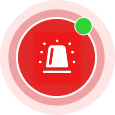
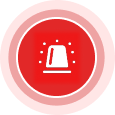
Fix

Changed region(s): [[0.6261, 0.1304, 0.8087, 0.313]]

diff --git a/lib/features/home/shared/presentation/screens/main_shell_screen.dart b/lib/features/home/shared/presentation/screens/main_shell_screen.dart
@@ -541,7 +541,10 @@ class _MainShellScreenState extends State<MainShellScreen> {
           Positioned(
             right: 12,
             bottom: navH + 8,
-            child: _SosFab(onPressed: _openIncomingRequest),
+            child: _SosFab(
+              isActive: rescueProvider.incomingRequest != null,
+              onPressed: _openIncomingRequest,
+            ),
           ),
       ],
     );
@@ -627,9 +630,10 @@ class _MainShellScreenState extends State<MainShellScreen> {
 }
 
 class _SosFab extends StatefulWidget {
-  const _SosFab({required this.onPressed});
+  const _SosFab({required this.onPressed, required this.isActive});
 
   final VoidCallback onPressed;
+  final bool isActive;
 
   @override
   State<_SosFab> createState() => _SosFabState();
@@ -655,6 +659,10 @@ class _SosFabState extends State<_SosFab> with SingleTickerProviderStateMixin {
 
   @override
   Widget build(BuildContext context) {
+    final activeColor = const Color(0xFF22C55E); // Green
+    final inactiveColor = const Color(0xFF9CA3AF); // Gray
+    final dotColor = widget.isActive ? activeColor : inactiveColor;
+
     return SizedBox(
       width: 76,
       height: 76,
@@ -662,24 +670,33 @@ class _SosFabState extends State<_SosFab> with SingleTickerProviderStateMixin {
         alignment: Alignment.center,
         clipBehavior: Clip.none,
         children: [
-          AnimatedBuilder(
-            animation: _pulse,
-            builder: (context, child) {
-              final t = _pulse.value;
-              return Stack(
-                alignment: Alignment.center,
-                children: [
-                  _GlowRing(size: 64 + t * 18, opacity: 0.22 * (1 - t)),
-                  _GlowRing(size: 52 + t * 10, opacity: 0.32 * (1 - t)),
-                ],
-              );
-            },
-          ),
+          if (widget.isActive)
+            AnimatedBuilder(
+              animation: _pulse,
+              builder: (context, child) {
+                final t = _pulse.value;
+                return Stack(
+                  alignment: Alignment.center,
+                  children: [
+                    _GlowRing(
+                      size: 64 + t * 18,
+                      opacity: 0.22 * (1 - t),
+                      color: AppColors.primary,
+                    ),
+                    _GlowRing(
+                      size: 52 + t * 10,
+                      opacity: 0.32 * (1 - t),
+                      color: AppColors.primary,
+                    ),
+                  ],
+                );
+              },
+            ),
           GestureDetector(
-            onTap: widget.onPressed,
+            onTap: widget.isActive ? widget.onPressed : null,
             child: Container(
-              width: 58,
-              height: 58,
+              width: 70,
+              height: 70,
               decoration: BoxDecoration(
                 shape: BoxShape.circle,
                 boxShadow: [
@@ -698,14 +715,34 @@ class _SosFabState extends State<_SosFab> with SingleTickerProviderStateMixin {
               child: ClipOval(
                 child: Image.asset(
                   'assets/images/main/fab_sos.png',
-                  width: 58,
-                  height: 58,
+                  width: 70,
+                  height: 70,
                   fit: BoxFit.cover,
                   errorBuilder: (_, __, ___) => Container(
                     color: AppColors.primary,
-                    child: const Icon(Icons.notifications_active, color: Colors.white, size: 28),
+                    child: const Icon(Icons.notifications_active, color: Colors.white, size: 40),
                   ),
                 ),
+              ),
+            ),
+          ),
+          Positioned(
+            right: 14,
+            top: 14,
+            child: Container(
+              width: 12,
+              height: 12,
+              decoration: BoxDecoration(
+                shape: BoxShape.circle,
+                color: dotColor,
+                border: Border.all(color: Colors.white, width: 2),
+                boxShadow: [
+                  BoxShadow(
+                    color: Colors.black.withValues(alpha: 0.2),
+                    blurRadius: 4,
+                    offset: const Offset(0, 1),
+                  ),
+                ],
               ),
             ),
           ),
@@ -716,10 +753,11 @@ class _SosFabState extends State<_SosFab> with SingleTickerProviderStateMixin {
 }
 
 class _GlowRing extends StatelessWidget {
-  const _GlowRing({required this.size, required this.opacity});
+  const _GlowRing({required this.size, required this.opacity, required this.color});
 
   final double size;
   final double opacity;
+  final Color color;
 
   @override
   Widget build(BuildContext context) {
@@ -728,7 +766,7 @@ class _GlowRing extends StatelessWidget {
       height: size,
       decoration: BoxDecoration(
         shape: BoxShape.circle,
-        color: AppColors.primary.withValues(alpha: opacity),
+        color: color.withValues(alpha: opacity),
       ),
     );
   }

diff --git a/lib/core/navigation/auth_navigation.dart b/lib/core/navigation/auth_navigation.dart
@@ -4,12 +4,14 @@ import 'package:flutter/material.dart';
 
 /// Đặt lại navigator gốc về một route [AuthGate] duy nhất.
 void resetToAuthGate() {
-  final nav = appNavigatorKey.currentState;
-  if (nav == null) return;
-  nav.pushAndRemoveUntil(
-    MaterialPageRoute(builder: (_) => const AuthGate()),
-    (route) => false,
-  );
+  WidgetsBinding.instance.addPostFrameCallback((_) {
+    final nav = appNavigatorKey.currentState;
+    if (nav == null) return;
+    nav.pushAndRemoveUntil(
+      MaterialPageRoute(builder: (_) => const AuthGate()),
+      (route) => false,
+    );
+  });
 }
 
 /// Sau đăng nhập / đăng ký xong — luôn đặt lại root (kể cả stack cũ chỉ còn "Bạn là ai?").